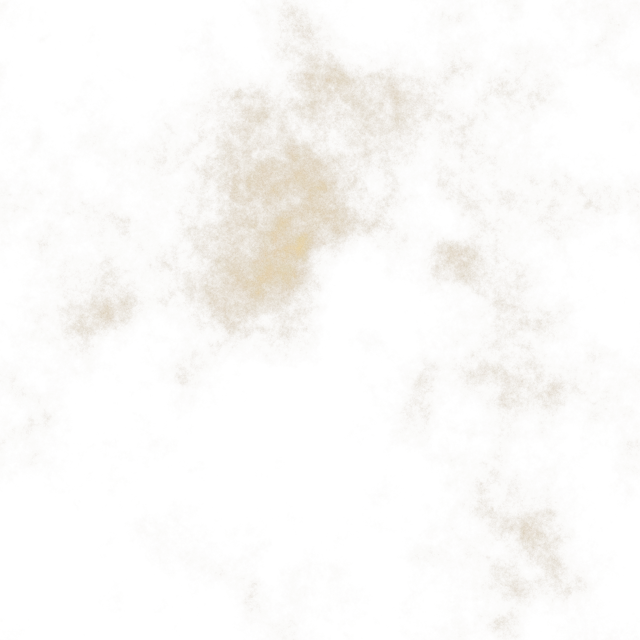
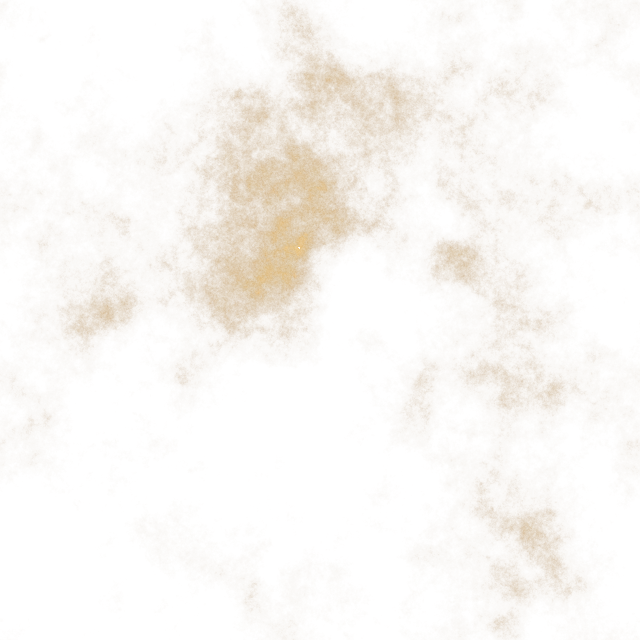
Livelier card: amber base, stronger clouds and glow
Claude-Session: https://claude.ai/code/session_01CC1aA9unkPT1AyCNRU7Naq

diff --git a/src/styles.css b/src/styles.css
@@ -24,7 +24,7 @@ button:disabled { cursor: default; opacity: .5; }
      translucent dark body that lets the desktop show faintly, and a thin bright rim. */
   /* Opaque so scripture reads over any window; the glass is in the sheen, the rim and
      the glint layer (first), which the arrival sweeps across the card once. */
-  background: linear-gradient(115deg, transparent 42%, #ffffff10 50%, transparent 58%) 200% 0 / 260% 100% no-repeat, linear-gradient(135deg, #ffffff18, #ffffff06 38%, transparent 62%), radial-gradient(ellipse at 100% 0, #9a834f30, transparent 60%), linear-gradient(150deg, #2b2620fb, #16130ffd);
+  background: linear-gradient(115deg, transparent 42%, #fff1d014 50%, transparent 58%) 200% 0 / 260% 100% no-repeat, linear-gradient(135deg, #ffe9b822, #ffe9b808 38%, transparent 62%), radial-gradient(ellipse at 100% 0, #f0b45a3a, transparent 60%), linear-gradient(150deg, #4a3521fb, #261a10fd);
   box-shadow: 0 18px 40px #0007, 0 2px 8px #0004, inset 0 1px #ffffff2e, inset 0 0 0 1px #ffffff0d, inset 0 -1px #ffffff08;
   opacity: 0; transform: translate(24px, 12px) scale(.96); transform-origin: bottom right;
   transition: opacity .3s ease, transform .5s var(--ease);
@@ -33,7 +33,7 @@ button:disabled { cursor: default; opacity: .5; }
 }
 /* Golden dust clouds under the text (assets/card-sky.webp, an original tileable
    texture): faint, drifting, fading out toward the bottom so the verse sits on calm ground. */
-.sky { position: absolute; inset: 0; z-index: -1; border-radius: inherit; background: url(../assets/card-sky.webp) 0 0 / 400px 400px repeat; opacity: .8; -webkit-mask-image: linear-gradient(180deg, #000 0%, #000c 45%, #0004 100%); mask-image: linear-gradient(180deg, #000 0%, #000c 45%, #0004 100%); animation: sky-drift 120s linear infinite; pointer-events: none; }
+.sky { position: absolute; inset: 0; z-index: -1; border-radius: inherit; background: url(../assets/card-sky.webp) 0 0 / 400px 400px repeat; opacity: 1; -webkit-mask-image: linear-gradient(180deg, #000 0%, #000d 50%, #0006 100%); mask-image: linear-gradient(180deg, #000 0%, #000d 50%, #0006 100%); animation: sky-drift 120s linear infinite; pointer-events: none; }
 @keyframes sky-drift { from { background-position: 0 0; } to { background-position: 400px -400px; } }
 .heading { display: flex; align-items: center; gap: 10px; }
 .seal { display: grid; place-items: center; flex: none; width: 34px; height: 34px; border: 0; border-radius: 50%; background: radial-gradient(circle, #e7c98a24, transparent 72%); color: var(--gold); font-size: 24px; }
@@ -73,7 +73,7 @@ body:not(.expanded) .translation { display: -webkit-box; -webkit-line-clamp: 3; 
 /* The card is Krishna's thought: two bubbles trail from its edge toward his head and share
    its surface and its timing. They live outside the card because the card clips overflow. */
 .thought { position: absolute; z-index: 3; right: calc(var(--presence-width) - 58px); bottom: 262px; width: 52px; height: 44px; pointer-events: none; }
-.thought i { position: absolute; border-radius: 50%; background: linear-gradient(135deg, #ffffff1e, transparent 60%), linear-gradient(150deg, #2b2620fb, #16130ffd); box-shadow: 0 6px 14px #0006, inset 0 1px #ffffff2e, inset 0 0 0 1px #ffffff0d; opacity: 0; transform: scale(.3); transition: opacity .35s ease, transform .6s cubic-bezier(.34, 1.56, .64, 1); }
+.thought i { position: absolute; border-radius: 50%; background: linear-gradient(135deg, #ffe9b824, transparent 60%), linear-gradient(150deg, #4a3521fb, #261a10fd); box-shadow: 0 6px 14px #0006, inset 0 1px #ffffff2e, inset 0 0 0 1px #ffffff0d; opacity: 0; transform: scale(.3); transition: opacity .35s ease, transform .6s cubic-bezier(.34, 1.56, .64, 1); }
 .thought i:first-child { left: 0; bottom: 0; width: 20px; height: 20px; }
 .thought i:last-child { right: 0; top: 0; width: 11px; height: 11px; }
 /* A thought forms from the head outward: the small bubble, the large one, then the card;
@@ -122,8 +122,8 @@ body.sprite.continuing[data-phase="arriving"] .halo, body.sprite.continuing[data
 @keyframes presence-fade-out { from { opacity: 1; } to { opacity: 0; } }
 /* The oval behind him throws a soft golden light: a warm core, a glow past the rim, a
    faint ring, and a slow breath while he is present. */
-.halo { position: absolute; inset: 10px 13px 80px; border-radius: 50%; background: radial-gradient(ellipse at 50% 42%, #f6d08a4a, #edc46f2a 34%, #d9ad5c10 56%, transparent 72%); box-shadow: 0 0 48px 12px #e7be6618, 0 0 120px 30px #d9a85a0a; }
-.halo::before { content: ""; position: absolute; inset: 13px 19px 48px; border: 1px solid #f0d49a3a; border-radius: 50%; box-shadow: inset 0 0 28px #f2c97a1c; }
+.halo { position: absolute; inset: 10px 13px 80px; border-radius: 50%; background: radial-gradient(ellipse at 50% 42%, #f9d99a7a, #f0c66f44 34%, #dcb0601a 56%, transparent 72%); box-shadow: 0 0 60px 16px #ecc26a2c, 0 0 140px 40px #d9a85a16; }
+.halo::before { content: ""; position: absolute; inset: 13px 19px 48px; border: 1px solid #f6dca85c; border-radius: 50%; box-shadow: inset 0 0 34px #f4cf7f2e, 0 0 18px #f2c97a22; }
 body[data-phase="present"] .halo { animation: halo-breathe 6s ease-in-out infinite; }
 @keyframes halo-breathe { 0%, 100% { opacity: .82; transform: scale(1); } 50% { opacity: 1; transform: scale(1.03); } }
 .presence-caption { position: absolute; bottom: 12px; left: 0; right: 0; text-align: center; text-shadow: 0 2px 6px #000; }

diff --git a/scripts/anim/make-sky.py b/scripts/anim/make-sky.py
@@ -36,10 +36,10 @@ def main():
     v = (v - v.min()) / (v.max() - v.min())
     # clouds live in the bright third: a soft threshold keeps most of the tile clear
     lit = np.clip((v - 0.52) / 0.48, 0, 1) ** 1.6
-    gold = np.array([233, 196, 122], dtype=np.float32)
-    umber = np.array([120, 92, 52], dtype=np.float32)
+    gold = np.array([245, 208, 132], dtype=np.float32)
+    umber = np.array([150, 108, 58], dtype=np.float32)
     rgb = umber[None, None, :] * (1 - lit[..., None]) + gold[None, None, :] * lit[..., None]
-    alpha = (lit * 0.55 + np.clip((v - 0.35) / 0.65, 0, 1) * 0.12) * 255
+    alpha = (lit * 0.85 + np.clip((v - 0.35) / 0.65, 0, 1) * 0.2) * 255
     out = np.dstack([rgb, alpha]).astype(np.uint8)
     Image.fromarray(out, 'RGBA').save(args.out, 'WEBP', quality=80, method=6)
     print(args.out, args.size, 'px tile')
